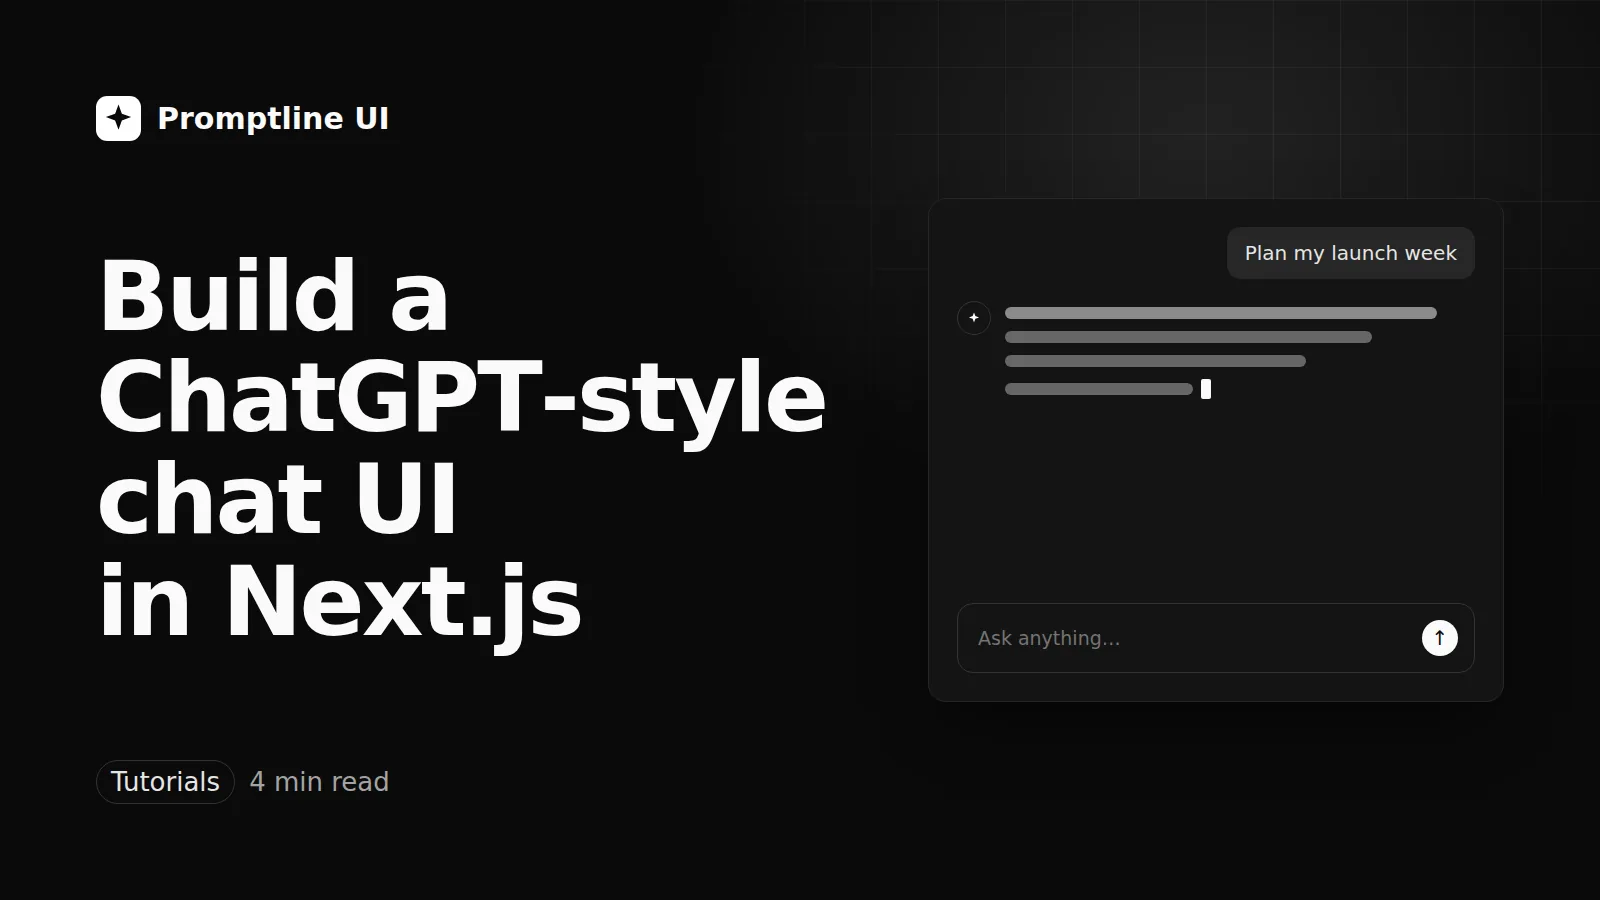
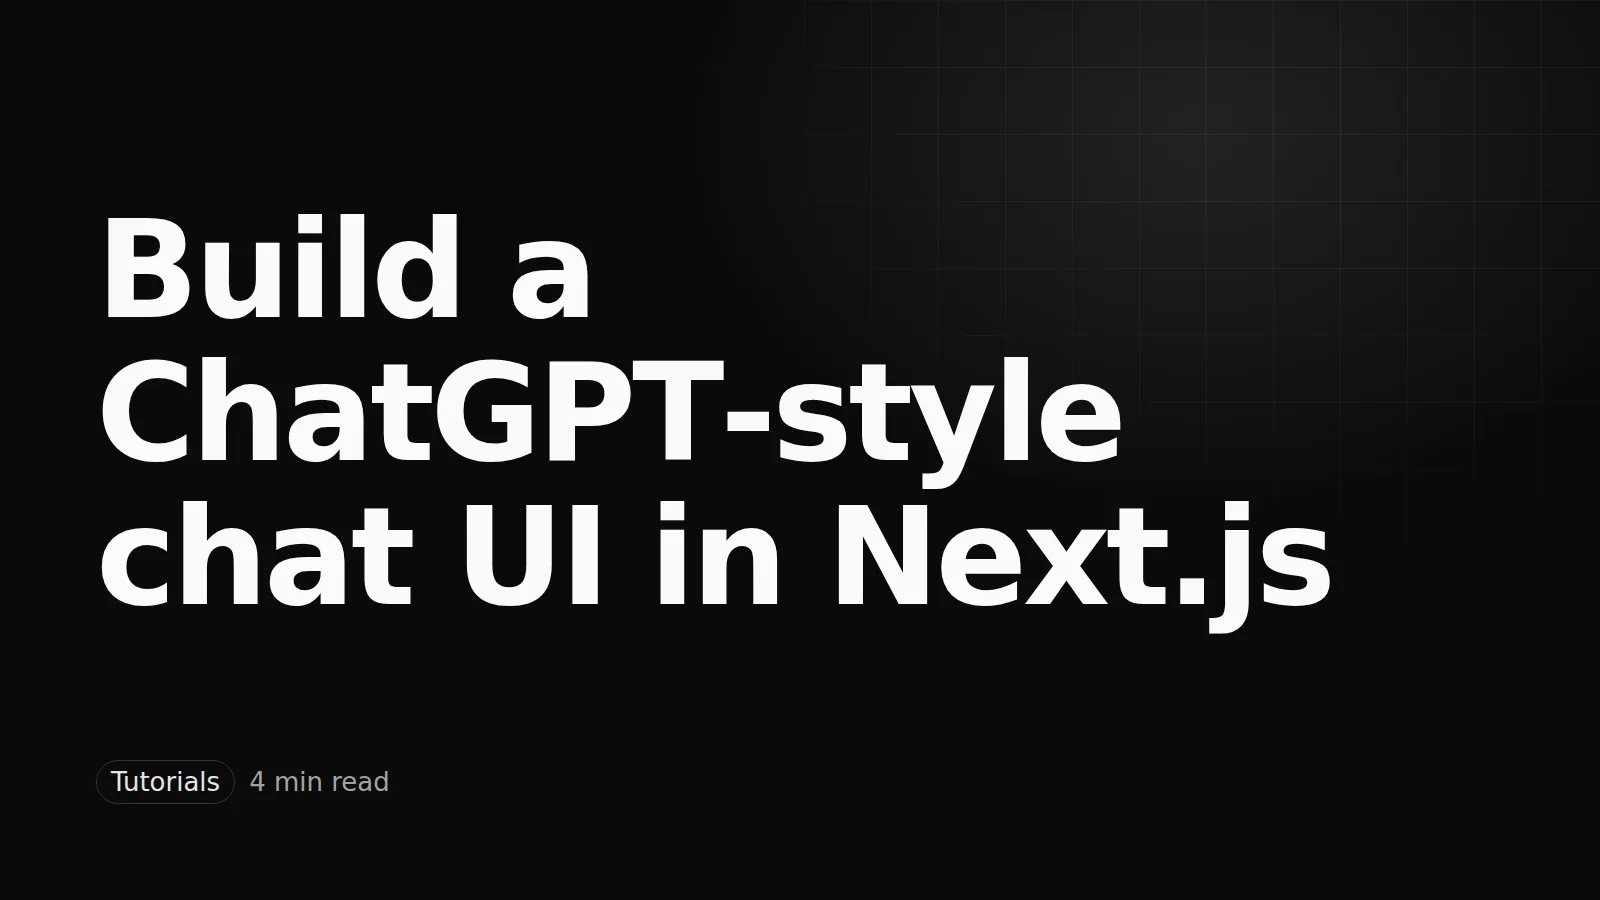
Text-only blog covers; hide date on post pages
- Covers: title + topic only (no logo, no illustration); title fills
  more of the image and is still auto-fitted
- Post page header shows author and reading time; the publish date
  stays in structured data for search engines

Claude-Session: https://claude.ai/code/session_01Le8gpddszzf32joXk36nMw

diff --git a/docs/pages/blog.tsx b/docs/pages/blog.tsx
@@ -113,8 +113,7 @@ export function BlogPost({ post, toc }: { post: Post; toc?: React.ReactNode }) {
               <span className="grid size-8 place-items-center rounded-full bg-fg text-sm font-semibold text-bg">{BRAND.author.name[0]}</span>{BRAND.author.name}
             </a>
             <span className="text-fg-subtle" aria-hidden>·</span>
-            <PostMeta post={post} />
-            {post.updated && post.updated !== post.date && <span className="text-sm text-fg-subtle">· Updated <time dateTime={post.updated}>{formatDate(post.updated)}</time></span>}
+            <span className="inline-flex items-center gap-1 text-sm text-fg-subtle"><Clock className="size-3.5" />{post.readingTime} min read</span>
             {post.draft && <span className="rounded-full bg-warning/10 px-2 py-0.5 text-xs font-medium text-warning">Draft</span>}
           </div>
 

diff --git a/README.md b/README.md
@@ -45,7 +45,7 @@ Change them there, then also update the header comments in `src/styles/tokens.cs
 
 ## Writing a blog post
 1. Add `content/blog/<slug>.md` with frontmatter: `title`, `description`, `date`, `topic`
-   (optional: `seoTitle`, `coverTitle`, `coverAlt`, `coverMotif` chat|code|compare|patterns,
+   (optional: `seoTitle`, `coverTitle` (shorter text for the cover), `coverAlt`,
    `tldr`, `faq`, `components`, `draft`). Use `:::demo <component>/<Example>` for live demos.
 2. Generate the cover and share image: `node scripts/gen-blog.mjs && node scripts/covers.mjs <slug>`
    (needs Playwright). Covers go to `public/blog/covers/`, share images to `public/og/blog/`.
